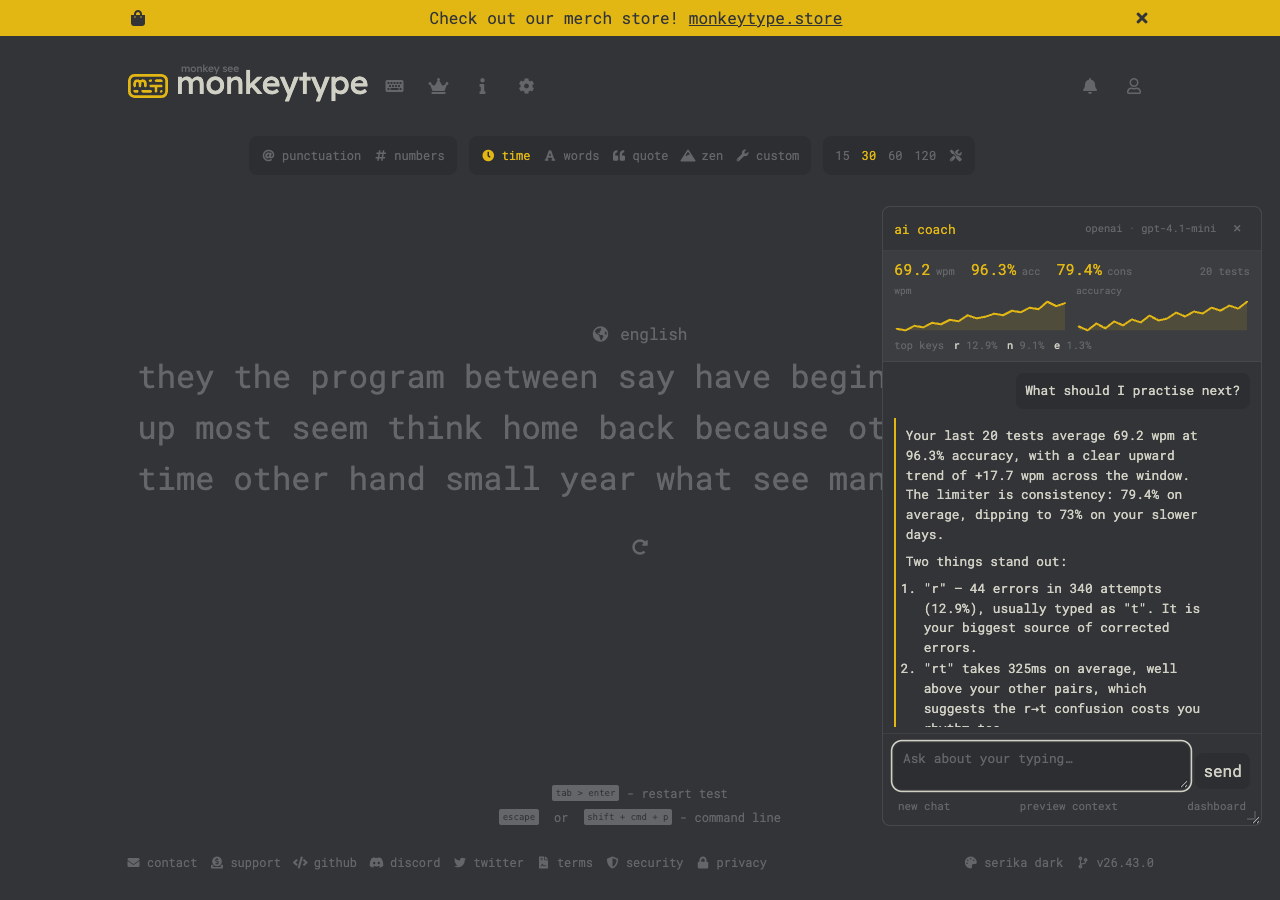
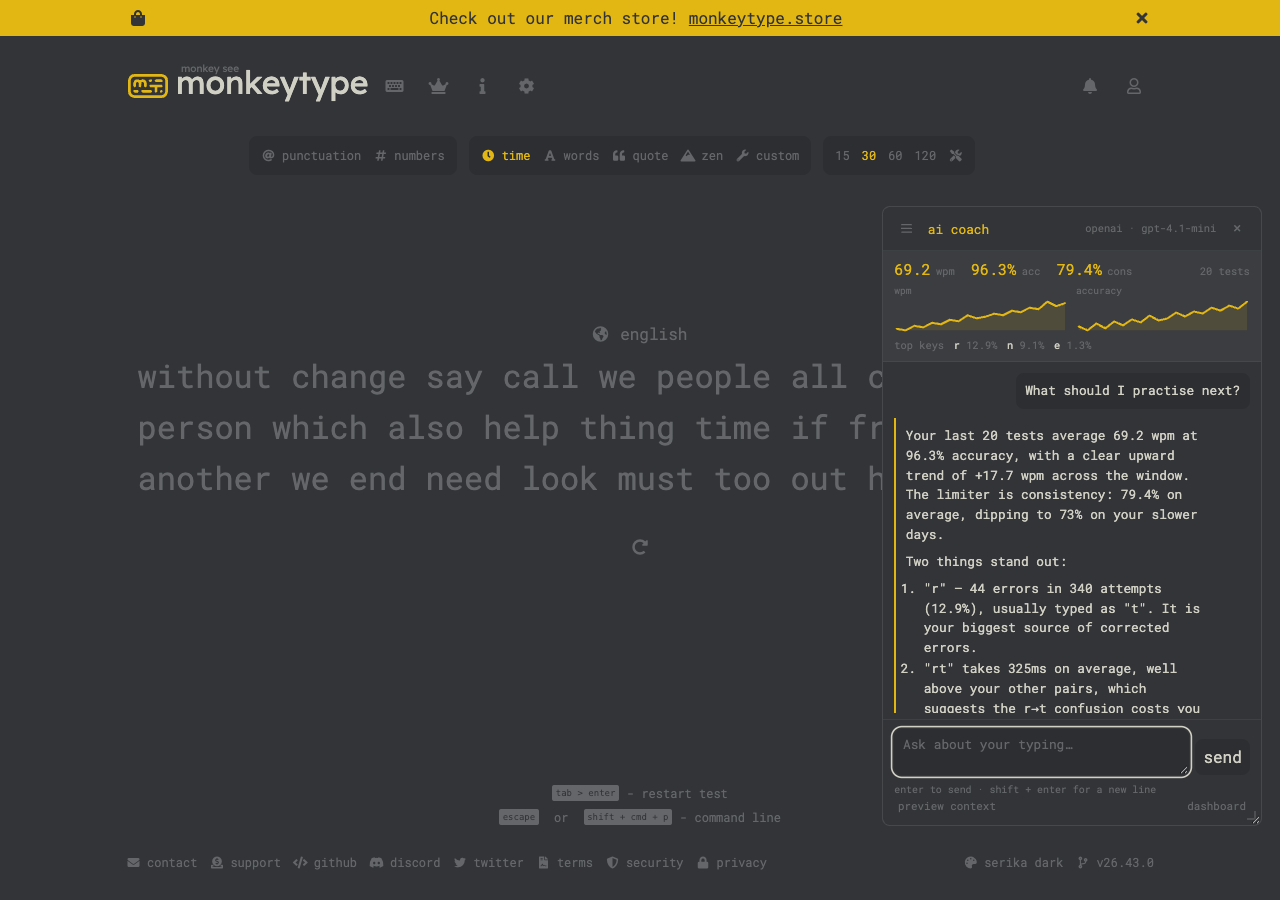
feat(chat): fix new chat and add a history drawer
New chat was a no-op in the in-page panel: the worker's 'new' handler cleared
the id and then immediately reopened the most recent conversation. It now
starts a genuinely empty thread, and the next message creates a new one.

Adds a history drawer behind a menu button in the panel header: previous
conversations with their title and relative time, the active one highlighted,
new chat at the top, click outside to close. The worker sends the list with
the chat state and after every completed answer, and a new 'open' message
loads a chosen thread.

Both composers now state the send shortcut: enter to send, shift + enter for
a new line.

Headless checks cover dashboard and panel new chat, history restore, the hint,
the drawer, the resized-window persistence and the mascot launcher.

Author: Sahil Verma <domainsahil007@gmail.com>

diff --git a/apps/extension/src/monkeytype/inpage-chat.ts b/apps/extension/src/monkeytype/inpage-chat.ts
@@ -78,6 +78,18 @@ const CSS = `
 .mtai-panel__note{font-size:.65rem;color:var(--sub-color);line-height:1.45}
 .mtai-panel__pre{margin:0;padding:.55rem;background:var(--sub-alt-color);border-radius:var(--roundness);font-family:var(--font);font-size:.62rem;line-height:1.5;color:var(--sub-color);white-space:pre-wrap;word-break:break-word;max-height:14rem;overflow:auto}
 .mtai-panel__status{font-size:.7rem;color:var(--sub-color);padding:0 .7rem .5rem}
+.mtai-panel__history{position:absolute;left:0;top:2.7rem;bottom:0;width:min(240px,82%);display:flex;flex-direction:column;background:var(--sub-alt-color);border-right:1px solid color-mix(in srgb,var(--sub-color) 30%,transparent);z-index:3}
+.mtai-panel__history[hidden]{display:none}
+.mtai-panel__history-head{display:flex;align-items:center;justify-content:space-between;gap:.5rem;padding:.5rem .6rem;border-bottom:1px solid color-mix(in srgb,var(--sub-color) 25%,transparent);font-size:.7rem;color:var(--sub-color)}
+.mtai-panel__history-new{background:none;color:var(--main-color);font-size:.68rem;padding:.15em .3em}
+.mtai-panel__history-new:hover{background:none;color:var(--text-color)}
+.mtai-panel__history-list{flex:1;overflow-y:auto;display:flex;flex-direction:column;gap:.1rem;padding:.3rem}
+.mtai-panel__history-item{display:flex;flex-direction:column;align-items:flex-start;gap:.05rem;width:100%;padding:.4rem .5rem;border:none;border-radius:calc(var(--roundness) / 2);background:none;color:var(--text-color);font-size:.72rem;text-align:left;cursor:pointer}
+.mtai-panel__history-item:hover{background:var(--bg-color)}
+.mtai-panel__history-item.is-active{background:var(--bg-color);color:var(--main-color)}
+.mtai-panel__history-item span{font-size:.6rem;color:var(--sub-color);overflow:hidden;text-overflow:ellipsis;white-space:nowrap;max-width:100%}
+.mtai-panel__history-empty{padding:.6rem;font-size:.68rem;color:var(--sub-color)}
+.mtai-panel__hint{padding:0 .7rem .1rem;font-size:.62rem;color:var(--sub-color)}
 .mtai-panel__status[hidden]{display:none}
 @media (prefers-reduced-motion:reduce){.mtai-launcher{transition:none}}
 `;
@@ -118,6 +130,9 @@ export function mountInpageChat(): void {
 	let panel: HTMLElement | null = null;
 	let body: HTMLElement | null = null;
 	let snapEl: HTMLElement | null = null;
+	let historyEl: HTMLElement | null = null;
+	let historyListEl: HTMLElement | null = null;
+	let historyOpen = false;
 	let chips: HTMLElement | null = null;
 	let modelLabel: HTMLElement | null = null;
 	let statusEl: HTMLElement | null = null;
@@ -241,6 +256,7 @@ export function mountInpageChat(): void {
 		switch (event.type) {
 			case "state": {
 				renderSnapshot(event.snapshot);
+				renderHistory(event.conversations, event.conversationId);
 				if (modelLabel !== null) {
 					modelLabel.textContent = event.configured
 						? `${event.provider} · ${event.model}`
@@ -294,6 +310,7 @@ export function mountInpageChat(): void {
 				if (streamingEl !== null) streamingEl.innerHTML = renderMarkdown(streamBuffer);
 				streamingEl = null;
 				streamBuffer = "";
+				renderHistory(event.conversations, event.conversationId);
 				setBusy(false);
 				scrollToEnd();
 				return;
@@ -433,6 +450,52 @@ export function mountInpageChat(): void {
 		panel.style.top = `${next.top}px`;
 	};
 
+	const relativeTime = (timestamp: number): string => {
+		const seconds = Math.max(0, Math.round((Date.now() - timestamp) / 1000));
+		if (seconds < 60) return "just now";
+		const minutes = Math.round(seconds / 60);
+		if (minutes < 60) return `${minutes}m ago`;
+		const hours = Math.round(minutes / 60);
+		if (hours < 24) return `${hours}h ago`;
+		return `${Math.round(hours / 24)}d ago`;
+	};
+
+	const setHistoryOpen = (open: boolean): void => {
+		historyOpen = open;
+		if (historyEl === null) return;
+		historyEl.hidden = !open;
+		const menu = panel?.querySelector(".mtai-panel__menu");
+		if (menu instanceof HTMLElement) menu.setAttribute("aria-expanded", String(open));
+	};
+
+	const renderHistory = (
+		conversations: { id: string; title: string; updatedAt: number }[],
+		activeId: string | null,
+	): void => {
+		if (historyListEl === null) return;
+		historyListEl.textContent = "";
+		if (conversations.length === 0) {
+			historyListEl.append(
+				element("div", "mtai-panel__history-empty", "No saved conversations yet."),
+			);
+			return;
+		}
+		for (const conversation of conversations) {
+			const item = element("button", "mtai-panel__history-item");
+			item.type = "button";
+			if (conversation.id === activeId) item.classList.add("is-active");
+			item.append(
+				element("span", "", conversation.title),
+				element("span", "", relativeTime(conversation.updatedAt)),
+			);
+			item.addEventListener("click", () => {
+				port?.postMessage({ type: "open", conversationId: conversation.id });
+				setHistoryOpen(false);
+			});
+			historyListEl.append(item);
+		}
+	};
+
 	const buildPanel = (): HTMLElement => {
 		const root = element("div", "mtai-panel");
 		root.setAttribute("role", "dialog");
@@ -440,13 +503,35 @@ export function mountInpageChat(): void {
 		root.hidden = true;
 
 		const head = element("div", "mtai-panel__head");
+		const menu = element("button", "mtai-panel__icon mtai-panel__menu");
+		menu.type = "button";
+		menu.setAttribute("aria-label", "Chat history");
+		menu.setAttribute("aria-expanded", "false");
+		menu.title = "Chat history";
+		menu.innerHTML =
+			'<svg viewBox="0 0 24 24" width="15" height="15" fill="none" stroke="currentColor" stroke-width="2" stroke-linecap="round" aria-hidden="true"><path d="M4 6h16M4 12h16M4 18h16"/></svg>';
+		menu.addEventListener("click", () => setHistoryOpen(!historyOpen));
 		const title = element("span", "mtai-panel__title", "ai coach");
 		modelLabel = element("span", "mtai-panel__model", "");
-		const close = element("button", "mtai-panel__icon", "×");
+		const close = element("button", "mtai-panel__icon mtai-panel__close", "×");
 		close.type = "button";
 		close.setAttribute("aria-label", "Close coach");
 		close.addEventListener("click", () => closePanel());
-		head.append(title, modelLabel, close);
+		head.append(menu, title, modelLabel, close);
+
+		historyEl = element("div", "mtai-panel__history");
+		historyEl.hidden = true;
+		const historyHead = element("div", "mtai-panel__history-head");
+		const historyTitle = element("span", "", "history");
+		const historyNew = element("button", "mtai-panel__history-new", "new chat");
+		historyNew.type = "button";
+		historyNew.addEventListener("click", () => {
+			port?.postMessage({ type: "new" } satisfies ChatPortRequest);
+			setHistoryOpen(false);
+		});
+		historyHead.append(historyTitle, historyNew);
+		historyListEl = element("div", "mtai-panel__history-list");
+		historyEl.append(historyHead, historyListEl);
 		head.style.userSelect = "none";
 		head.style.cursor = "grab";
 		head.addEventListener("pointerdown", (event) => {
@@ -523,13 +608,6 @@ export function mountInpageChat(): void {
 		});
 
 		const actions = element("div", "mtai-panel__actions");
-		const newChat = element("button", "mtai-panel__link", "new chat");
-		newChat.type = "button";
-		newChat.addEventListener("click", () => {
-			previewEl = previewEl ?? null;
-			if (previewEl !== null) previewEl.hidden = true;
-			port?.postMessage({ type: "new" } satisfies ChatPortRequest);
-		});
 		const preview = element("button", "mtai-panel__link", "preview context");
 		preview.type = "button";
 		preview.addEventListener("click", () => {
@@ -546,8 +624,33 @@ export function mountInpageChat(): void {
 			port?.postMessage({ type: "open-dashboard" }),
 		);
 
-		actions.append(newChat, preview, dashboard);
-		root.append(head, snapEl, body, chips, statusEl, previewEl, form, actions);
+		actions.append(preview, dashboard);
+		const hint = element(
+			"div",
+			"mtai-panel__hint",
+			"enter to send · shift + enter for a new line",
+		);
+		root.append(
+			head,
+			historyEl,
+			snapEl,
+			body,
+			chips,
+			statusEl,
+			previewEl,
+			form,
+			hint,
+			actions,
+		);
+
+		// Clicking outside the drawer closes it.
+		root.addEventListener("click", (event) => {
+			if (!historyOpen || historyEl === null) return;
+			const target = event.target;
+			if (!(target instanceof Node)) return;
+			if (historyEl.contains(target) || menu.contains(target)) return;
+			setHistoryOpen(false);
+		});
 
 		// Monkeytype listens for keys at document level; keep its shortcuts out of
 		// the panel while still letting the textarea receive normal input.

diff --git a/apps/extension/src/ai/port-chat.ts b/apps/extension/src/ai/port-chat.ts
@@ -5,7 +5,11 @@ import {
 	type ChatPortEvent,
 	type ChatPortRequest,
 } from "@/shared/port-protocol";
-import { getConversation, latestConversation } from "@/storage/conversations";
+import {
+	getConversation,
+	latestConversation,
+	listConversations,
+} from "@/storage/conversations";
 import { getApiKey } from "@/storage/credentials";
 import { getSettings } from "@/storage/settings";
 import { buildPreview, buildSuggestions } from "./prompt";
@@ -34,14 +38,28 @@ export function registerChatPort(): void {
 			}
 		};
 
-		const postState = async (): Promise<void> => {
+		const conversationSummaries = async () =>
+			(await listConversations()).map((conversation) => ({
+				id: conversation.id,
+				title: conversation.title,
+				updatedAt: conversation.updatedAt,
+			}));
+
+		const postState = async (options: { fresh?: boolean } = {}): Promise<void> => {
 			const settings = await getSettings();
 			const apiKey = await getApiKey(settings.ai.provider);
-			const conversation =
-				conversationId === null
-					? await latestConversation()
-					: await getConversation(conversationId);
-			conversationId = conversation?.id ?? null;
+
+			let conversation =
+				conversationId === null ? null : await getConversation(conversationId);
+			if (options.fresh === true) {
+				conversationId = null;
+				conversation = null;
+			} else if (conversation === null && conversationId === null) {
+				// Reopen the most recent thread when the panel connects.
+				conversation = await latestConversation();
+				conversationId = conversation?.id ?? null;
+			}
+
 			const data = await loadCoachData();
 			post({
 				type: "state",
@@ -56,6 +74,7 @@ export function registerChatPort(): void {
 					})) ?? [],
 				suggestions: buildSuggestions(data),
 				snapshot: buildSnapshot(data),
+				conversations: await conversationSummaries(),
 			});
 		};
 
@@ -71,7 +90,11 @@ export function registerChatPort(): void {
 					},
 				);
 				conversationId = reply.conversation.id;
-				post({ type: "done", conversationId });
+				post({
+					type: "done",
+					conversationId,
+					conversations: await conversationSummaries(),
+				});
 			} catch (error) {
 				const message = error instanceof Error ? error.message : String(error);
 				if (/cancelled|aborted/i.test(message)) post({ type: "aborted" });
@@ -114,7 +137,10 @@ export function registerChatPort(): void {
 						await handlePreview();
 						return;
 					case "new":
-						conversationId = null;
+						await postState({ fresh: true });
+						return;
+					case "open":
+						conversationId = message.conversationId;
 						await postState();
 						return;
 					case "open-dashboard":

diff --git a/apps/extension/src/shared/port-protocol.ts b/apps/extension/src/shared/port-protocol.ts
@@ -4,11 +4,18 @@ export type ChatPortRequest =
 	| { type: "abort" }
 	| { type: "preview" }
 	| { type: "new" }
+	| { type: "open"; conversationId: string }
 	| { type: "open-dashboard" };
 
 export interface PortMessage {
 	role: "user" | "assistant";
 	content: string;
+}
+
+export interface ConversationSummary {
+	id: string;
+	title: string;
+	updatedAt: number;
 }
 
 import type { CoachSnapshot } from "@/ai/snapshot";
@@ -23,9 +30,10 @@ export type ChatPortEvent =
 			messages: PortMessage[];
 			suggestions: string[];
 			snapshot: CoachSnapshot;
+			conversations: ConversationSummary[];
 	  }
 	| { type: "chunk"; text: string }
-	| { type: "done"; conversationId: string }
+	| { type: "done"; conversationId: string; conversations: ConversationSummary[] }
 	| { type: "error"; message: string }
 	| { type: "aborted" }
 	| { type: "preview"; system: string; tokens: number; provider: string; model: string };

diff --git a/apps/extension/src/ui/dashboard/CoachTab.tsx b/apps/extension/src/ui/dashboard/CoachTab.tsx
@@ -371,6 +371,10 @@ export function CoachTab(props: {
 					)}
 				</div>
 
+				<p className="mtai-note" style={{ margin: 0 }}>
+					enter to send · shift + enter for a new line
+				</p>
+
 				<p className="mtai-note">
 					{formatNumber(coachData.stats.validTests)} tests in context · accuracy{" "}
 					{formatPercent(coachData.stats.acc.average)} · key data on{" "}

diff --git a/README.md b/README.md
@@ -42,6 +42,8 @@ preview.
 - **Visual evidence in chat.** Every coach answer sits under a live snapshot of the
   window: WPM and accuracy sparklines, the key stats and the top problem keys — real
   data, rendered as charts and bars rather than a wall of numbers.
+- **History that behaves.** New chat starts a genuinely empty thread, and the drawer
+  lists previous ones with titles and timestamps; open one to continue it.
 - **Privacy by construction.** The exact prompt is previewable before sending, key
   data and recent-test summaries are optional, credentials never enter a content
   script, and no telemetry is sent anywhere.
@@ -64,7 +66,9 @@ preview.
 
 ![Coach launcher](docs/screenshots/inpage-launcher.png)
 
-The coach opens from the mascot button in the bottom-right corner, stays hidden while a test is running, and the window can be dragged and resized.
+The coach opens from the mascot button in the bottom-right corner, stays hidden while a test is running, and the window can be dragged and resized. Chat history lives in a drawer behind the menu icon:
+
+![Chat history](docs/screenshots/inpage-history.png)
 
 ## Install
 

diff --git a/docs/design-system.md b/docs/design-system.md
@@ -73,6 +73,9 @@ the same tokens as the rest of the interface.
 - The panel is a floating window: drag its header to move it, drag the bottom-right
   corner to resize, and the geometry is clamped to the viewport and remembered in
   `localStorage`.
+- A menu button in the panel header opens a history drawer listing previous
+  conversations (title + relative time); the current one is highlighted. The
+  composer states "enter to send · shift + enter for a new line" on both surfaces.
 
 ## Where each stylesheet is used
 
